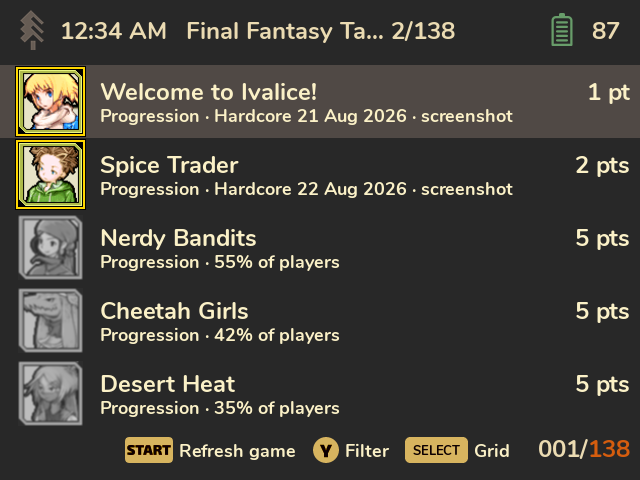
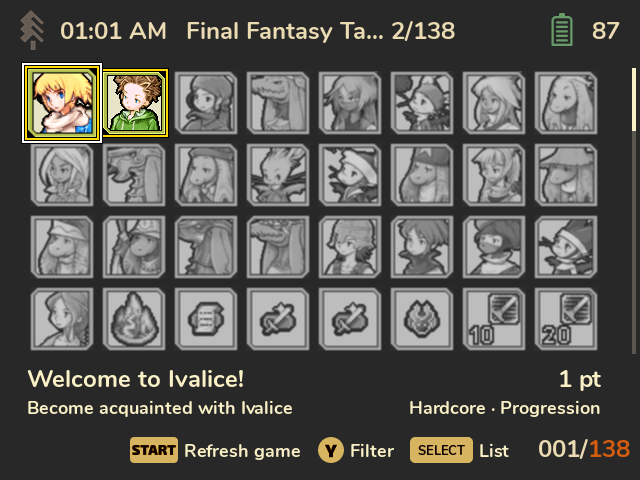
UI: default achievements to grid (#24)

diff --git a/tests/screens/test_walkthrough.py b/tests/screens/test_walkthrough.py
@@ -28,7 +28,7 @@ pytestmark = [
 WALKTHROUGH = (
     "shot:home,a,shot:profile,b,down,a,shot:games,select,shot:games_details,select,"
     "y,shot:games_options,b,"
-    "down,a,shot:game,y,a,down,a,shot:game_grid,select,shot:game_list,b,b,down,a,shot:recent,b,"
+    "down,a,shot:game,select,y,a,down,a,shot:game_grid,select,shot:game_list,b,b,down,a,shot:recent,b,"
     "down,a,shot:awards,a,down,a,shot:settings,down,down,down,down,down,down,down,down,a,"
     "shot:about"
 )
@@ -134,7 +134,7 @@ def test_full_walkthrough(tmp_path, options_button):
 @pytest.mark.parametrize(
     "open_screen",
     ["down,a", "down,a,a", "down,a,a,select", "down,down,down,a"],
-    ids=["games", "achievements", "badge_grid", "awards"],
+    ids=["games", "badge_grid", "achievement_list", "awards"],
 )
 def test_options_popups_accept_y_and_menu(tmp_path, open_screen):
     run_app(
@@ -154,7 +154,7 @@ def test_options_popups_accept_y_and_menu(tmp_path, open_screen):
 
 def test_unlock_screenshot(tmp_path):
     # Real screenshots (dev/sdcard) are git-ignored; without them the fixture card has stand-ins.
-    run_app(tmp_path, "down,a,down,a,down,a,shot:achievement,a,shot:screenshot")
+    run_app(tmp_path, "down,a,down,a,right,a,shot:achievement,a,shot:screenshot")
     shots = tmp_path / "shots" / "640x480"
     assert (shots / "achievement.png").read_bytes() != (shots / "screenshot.png").read_bytes()
 
@@ -227,7 +227,7 @@ def test_games_list_is_kept_while_its_games_are_unchanged(tmp_path):
 
 def test_badge_grid_wraps_to_the_last_page_and_comes_back_to_it_from_a_card(tmp_path):
     # Fire Emblem (87 badges): up from the first wraps to the last, partial page.
-    run_app(tmp_path, "down,a,a,select,shot:first,up,shot:last,a,shot:card,b,shot:back")
+    run_app(tmp_path, "down,a,a,shot:first,up,shot:last,a,shot:card,b,shot:back")
     assert_shots(tmp_path, ["first", "last", "card", "back"])
     shots = tmp_path / "shots" / "640x480"
     below_clock = [png_rows(shots / f"{name}.png", 480)[1][64:] for name in ("first", "last")]
@@ -238,27 +238,27 @@ def test_badge_grid_wraps_to_the_last_page_and_comes_back_to_it_from_a_card(tmp_
 def test_view_preferences_survive_exit_and_restart(tmp_path):
     run_app(
         tmp_path,
-        "down,a,select,shot:details,down,a,select,y,down,down,a,down,down,down,a,shot:grid,b,b,b",
+        "down,a,select,shot:details,down,a,select,y,down,down,a,down,down,down,a,shot:list,b,b,b",
     )
     settings_file = tmp_path / "sdcard/Saves/cheevos/settings.json"
     assert load_settings(settings_file) == Settings(
-        game_list_details=True, achievement_grid=True, achievement_sort="points"
+        game_list_details=True, achievement_grid=False, achievement_sort="points"
     )
 
     # Restart on the same card, then change the layout through Y. Exhausting the script raises
     # SystemExit, which must save the final choice just like B on Home in the first run.
     run_app(
         tmp_path,
-        "down,a,shot:restored_details,down,a,shot:restored_grid,y,a,up,a,shot:list,"
+        "down,a,shot:restored_details,down,a,shot:restored_list,y,a,down,a,shot:grid,"
         "y,down,down,a,down,a,shot:rarity",
     )
     shots = tmp_path / "shots" / "640x480"
-    for name in ("details", "grid"):
+    for name in ("details", "list"):
         # Ignore the top-bar clock when comparing the views before and after restart.
         expected = png_rows(shots / f"{name}.png", 480)[1][64:]
         assert png_rows(shots / f"restored_{name}.png", 480)[1][64:] == expected
     assert load_settings(settings_file) == Settings(
-        game_list_details=True, achievement_grid=False, achievement_sort="rarity"
+        game_list_details=True, achievement_grid=True, achievement_sort="rarity"
     )
 
 

diff --git a/tests/unit/test_ui_context.py b/tests/unit/test_ui_context.py
@@ -39,8 +39,8 @@ def test_changes_apply_in_memory_and_flush_once(tmp_path, monkeypatch):
     monkeypatch.setattr(context, "save_settings", saved)
 
     ctx.update_settings(replace(ctx.settings, game_list_details=True))
-    ctx.update_settings(replace(ctx.settings, achievement_grid=True, auto_sync=False))
-    assert ctx.settings == Settings(game_list_details=True, achievement_grid=True, auto_sync=False)
+    ctx.update_settings(replace(ctx.settings, achievement_grid=False, auto_sync=False))
+    assert ctx.settings == Settings(game_list_details=True, achievement_grid=False, auto_sync=False)
     assert load_settings(ctx.paths.settings_file) == Settings()
     saved.assert_not_called()
 
@@ -51,7 +51,7 @@ def test_changes_apply_in_memory_and_flush_once(tmp_path, monkeypatch):
     assert saved.call_count == 1
 
 
-@pytest.mark.parametrize("initial", [Settings(), Settings(achievement_grid=True)])
+@pytest.mark.parametrize("initial", [Settings(), Settings(achievement_grid=False)])
 def test_unchanged_or_reverted_settings_need_no_write(tmp_path, monkeypatch, initial):
     ctx = make_context(tmp_path, initial)
     saved = Mock()
@@ -67,7 +67,7 @@ def test_unchanged_or_reverted_settings_need_no_write(tmp_path, monkeypatch, ini
 def test_failed_save_is_logged_and_can_be_retried(tmp_path, monkeypatch, caplog):
     ctx = make_context(tmp_path)
     save_settings(ctx.paths.settings_file, ctx.settings)
-    ctx.update_settings(replace(ctx.settings, achievement_grid=True))
+    ctx.update_settings(replace(ctx.settings, achievement_grid=False))
     saved = Mock(side_effect=OSError("card is read-only"))
     monkeypatch.setattr(context, "save_settings", saved)
     ctx.flush_settings()

diff --git a/tests/unit/test_settings.py b/tests/unit/test_settings.py
@@ -14,7 +14,10 @@ from cheevos.core.settings import (
 
 
 def test_missing_file_gives_defaults(tmp_path):
-    assert load_settings(tmp_path / "settings.json") == DEFAULTS
+    loaded = load_settings(tmp_path / "settings.json")
+    assert loaded == DEFAULTS
+    assert loaded.achievement_grid is True
+    assert loaded.awards_view == "carousel"
     assert Settings(BadgeScope.ON_DEVICE_AND_RECENT, 30, DescriptionHiding.OFF, True) == DEFAULTS
 
 
@@ -97,12 +100,15 @@ def test_invalid_achievement_sort_keeps_other_preferences(tmp_path, sort):
     assert load_settings(path) == Settings(achievement_grid=True)
 
 
+@pytest.mark.parametrize("grid", [False, True])
 @pytest.mark.parametrize("view", ["carousel", "grid", "list"])
-def test_awards_view_is_independent_of_the_achievement_view(tmp_path, view):
+def test_saved_view_preferences_are_preserved_independently(tmp_path, grid, view):
     path = tmp_path / "settings.json"
-    save_settings(path, Settings(achievement_grid=False, awards_view=view))
+    save_settings(path, Settings(achievement_grid=grid, awards_view=view))
+    stored = path.read_bytes()
     loaded = load_settings(path)
-    assert (loaded.awards_view, loaded.achievement_grid) == (view, False)
+    assert (loaded.awards_view, loaded.achievement_grid) == (view, grid)
+    assert path.read_bytes() == stored
 
 
 @pytest.mark.parametrize("view", [None, True, "wall", "Grid", ["list"]])

diff --git a/scripts/doc_screens.py b/scripts/doc_screens.py
@@ -34,9 +34,9 @@ RUNS: list[tuple[str, str | None, str]] = [
                 "a,shot:profile,x,down,down,down,down,down,down,shot:profile-more,b",
                 f"down,a,{BY_COMPLETION},shot:games,select,shot:games-details,select",
                 "down,down,a,shot:game",
-                "down,a,shot:achievement,a,shot:fullscreen,b,b,b",
+                "right,a,shot:achievement,a,shot:fullscreen,b,b,b",
                 # Descent, mastered: the grid shot also shows the award dot in the top bar
-                "up,up,a,select,shot:game-grid,b,b",
+                "up,up,a,shot:game-grid,b,b",
                 "down,a,shot:recent,b",
                 # Carousel first; the grid and list then select AotW 2026 (third), a tiered event
                 "down,a,shot:awards,right,right",

diff --git a/tests/unit/test_ui_awards.py b/tests/unit/test_ui_awards.py
@@ -310,7 +310,7 @@ def test_select_cycles_views_keeping_the_selection_and_remembers_it(monkeypatch)
     assert [view.layout for view in FakeView.built] == [Layout.CAROUSEL, Layout.BADGES, Layout.LIST]
     assert [view.initial for view in FakeView.built] == [0, 3, 3]
     assert ctx.settings.awards_view == "list"
-    assert ctx.settings.achievement_grid is False  # independent of the achievement view
+    assert ctx.settings.achievement_grid is True  # independent of the achievement view
 
 
 def test_new_filter_starts_at_the_top_and_unchanged_options_keep_the_page(monkeypatch):

diff --git a/tests/unit/test_ui_game_detail.py b/tests/unit/test_ui_game_detail.py
@@ -97,7 +97,7 @@ def test_empty_filter_recovers_the_full_set(monkeypatch, message_ui, button, lay
     expected = Layout.BADGES if layout == "grid" else Layout.LIST
     shown = [(view.items, view.layout) for view in built]
     assert shown == [
-        ([MenuItem("Locked"), MenuItem("More points")], Layout.LIST),
+        ([MenuItem("Locked"), MenuItem("More points")], Layout.BADGES),
         ([MenuItem("More points"), MenuItem("Locked")], expected),
     ]
     assert message_ui == [strings.NO_ACHIEVEMENTS]

diff --git a/src/cheevos/core/settings.py b/src/cheevos/core/settings.py
@@ -65,7 +65,7 @@ class Settings:
     hide_descriptions: DescriptionHiding = DescriptionHiding.OFF
     auto_sync: bool = True
     game_list_details: bool = False
-    achievement_grid: bool = False
+    achievement_grid: bool = True
     achievement_sort: str = "order"
     awards_view: str = "carousel"
 

diff --git a/.agents/device.md b/.agents/device.md
@@ -8,7 +8,7 @@ always apply. The device commands are in [TESTING.md](../TESTING.md).
 | Item | Value |
 |---|---|
 | OS | SpruceOS ≥ 4.5.0. Needs PyUI views, `spruce/scripts/appEnv.sh` and RAOfflineProxy 2.x. |
-| Devices | Every device Spruce supports. Verified on a Miyoo Mini+ (640×480); the rest of the Mini family shares its setup. Others are untested. |
+| Devices | Every device supported by SpruceOS. |
 | Resolutions | Every resolution the default SPRUCE theme ships: 640×480, 720×480, 752×560, 720×720, 960×720, 1024×768, 1280×720, 480×800. |
 | Runtime | Spruce's CPython **3.10.18**: `$SPRUCE_PYTHON` (32-bit: `spruce/bin/python/bin/python3.10`; 64-bit: `spruce/flip/bin/python3.10`). |
 | Built-in modules we rely on | `ssl` (OpenSSL 3.5), `sqlite3`, `json`, `hashlib`, `zlib`, `ctypes`, `zoneinfo` |
@@ -36,10 +36,8 @@ always apply. The device commands are in [TESTING.md](../TESTING.md).
 - **No `devices` list:** a `devices` list in an app's `config.json` hides it on every device not
   named there. Cheevos ships without one, so the Apps menu shows it on every device.
   `launch.sh` covers every platform PyUI's launcher does.
-- **Untested devices run the same code as the Mini.** Keep device-specific screens and code
-  paths out of the app: we can't test them, so on exactly the devices they're for they would
-  be the riskiest code. A one-time "untested device" note was removed for this reason (it also
-  gave users nothing to act on). Release notes say which devices are tested.
+- **Shared UI across devices:** use the same screens and application logic on every platform,
+  with platform setup handled by the launcher and PyUI bridge.
 - **Start-up failures:** when the app exits non-zero, `launch.sh` appends its stderr to the app
   log and shows a message ([product.md](product.md), "Offline and error behaviour").
   `/mnt/SDCARD/App/PyUI/launch.sh -msgDisplay "text" -msgDisplayTimeMs 5000` shows a message on
@@ -49,7 +47,7 @@ always apply. The device commands are in [TESTING.md](../TESTING.md).
   [RELEASING.md](../RELEASING.md), under "Releases"). The description links merged PR titles
   and direct commit titles.
   Pre-releases start at the previous version tag; stable releases start at the previous stable tag.
-  Game Nursery packaging follows whatever format the maintainers ask for.
+  Stable releases are mirrored into SpruceOS's `App/Cheevos/` through an upstream PR.
 
 ## Device gotchas (verified on a Miyoo Mini+, SpruceOS 4.5.0)
 - **Idle check:** a test once replaced the cache under an open session; hence the rule to check

diff --git a/README.md b/README.md
@@ -22,29 +22,27 @@ Works offline, follows your Spruce theme.
 - **Optional spoiler protection** for locked descriptions: all of them, or just the story ones.
 
 ## Install
+Cheevos is included in SpruceOS public and nightly releases and supports **every device
+supported by SpruceOS**.
+
 1. You need **SpruceOS 4.5.0+**, signed in to RetroAchievements (Spruce Settings →
-   RetroAchievements, or RetroArch). Tested on the Miyoo Mini family; other Spruce devices
-   should work too, see below.
-2. Download the latest [release](../../releases) and copy the `Cheevos` folder into `App/` on
-   your SD card.
-3. Open **Apps → Cheevos** and enter your **Web API key** when asked. Find it at
+   RetroAchievements, or RetroArch).
+2. Open **Apps → Cheevos** and enter your **Web API key** when asked. Find it at
    retroachievements.org → Settings → Applications.
+
+For a manual installation or update, download the latest [release](../../releases) and copy
+the `Cheevos` folder into `App/` on your SD card.
 
 The [user guide](docs/Home.md) explains every screen, setting and limitation.
 
 ## Development
 Python 3.10 with no third-party packages at runtime; the screens are drawn with PyUI, the UI
 toolkit SpruceOS ships. A desktop runner shows the real app on a Mac or PC without a device.
-- [CONTRIBUTING.md](CONTRIBUTING.md): reporting bugs and devices, making changes, pull requests.
+- [CONTRIBUTING.md](CONTRIBUTING.md): reporting bugs, making changes, pull requests.
 - [TESTING.md](TESTING.md): setup, tests, the desktop runner, simulations, the device workflow.
 - [RELEASING.md](RELEASING.md): CI, releases, SpruceOS pull requests and wiki publication.
 - [AGENTS.md](AGENTS.md) and [.agents/](.agents/): how it works inside, area by area. Written for
   coding agents, and just as useful to people.
-
-**Help testing on other Spruce devices is welcome.** Cheevos installs on every Spruce device, but
-so far it's only been tried on the Miyoo Mini family. On other devices it says so on first
-start; if you try it, please open an issue with how it went and the log
-(`Saves/spruce/cheevos-<device>.log`), see [CONTRIBUTING.md](CONTRIBUTING.md).
 
 ## Credits and license
 MIT, see [LICENSE](LICENSE). Data, badges and game icons come from

diff --git a/.agents/product.md b/.agents/product.md
@@ -21,8 +21,7 @@ Related: what we read from Spruce, RetroArch and the proxy is in
 - Works offline once synced. When Wi-Fi is up, it syncs incrementally in the background.
 - Shows Hardcore and Casual progress side by side, plus unlocks still queued in RAOfflineProxy.
 - Links achievements to their unlock screenshots when they exist.
-- Quality good enough to ship publicly (GitHub release, then Spruce Game Nursery or an upstream
-  PR).
+- Ships in SpruceOS public and nightly releases, with standalone packages on GitHub.
 
 **Non-goals (v1)**
 - Launching games from the hub.
@@ -90,8 +89,9 @@ Settings.
   - title, points, and a type tag (Progression / Win / Missable);
   - an unlock marker: Hardcore, Casual or Pending sync;
   - "screenshot" if an unlock screenshot exists.
-- **View**: list or badge grid (Select). Going into a card and back returns to the same view and
-  page; so does a Y menu left unchanged. A new filter or sort starts at the top.
+- **View**: badge grid (default) or list (Select). Saved preferences keep their chosen view.
+  Going into a card and back returns to the same view and page; so does a Y menu left
+  unchanged. A new filter or sort starts at the top.
 - **Badge grid**: badges packed close together, like the achievement wall on RA profiles: 8×4
   at 640×480, 11×4 at 1280×720, 8×6 at 720×720, 6×8 at 480×800 (whole rows and columns at the
   theme's badge size, never shrunk to fit more). Every cell has room for a gold outline, so no

diff --git a/docs/Screens.md b/docs/Screens.md
@@ -75,7 +75,8 @@ details. Their cards say **Unlocked offline · waiting to sync**, with the queue
 
 ![Achievements](images/game.png)
 
-Press **Select** for a badge grid, and **Y** to filter (locked, unlocked, missable, progression
+Achievements start in the badge grid unless you've saved another view. Press **Select** to
+switch between grid and list, and **Y** to filter (locked, unlocked, missable, progression
 and win) or sort (**RA display order**, points, rarest first, unlocked first or locked first).
 RA display order is the default: the set's display order on RetroAchievements, with achievement
 ID breaking ties. Cheevos remembers your sort and list/grid choice for all games, including games
@@ -130,7 +131,7 @@ for completing this event"…) and the date.
 
 Press **Select** to switch between three views; Cheevos remembers your choice:
 
-- **Carousel**: one large badge in the middle, its neighbours getting smaller towards the
+- **Carousel** (default): one large badge in the middle, its neighbours getting smaller towards the
   edges. **Left** and **right** slide through them.
 - **Grid**: many badges at once, like the profile page.
 - **List**: one row per badge, with its title, description and date.

diff --git a/docs/Installation.md b/docs/Installation.md
@@ -1,15 +1,18 @@
 # Installation
 
+Cheevos is included in SpruceOS public and nightly releases. Open **Apps → Cheevos** to start
+it. You can also install or update it manually from the latest Cheevos release.
+
 ## Requirements
 - **SpruceOS 4.5.0+.** Cheevos uses Spruce's own UI toolkit (PyUI) and Python, so it
   needs nothing else.
-- **A device Spruce runs on.** Cheevos is tested on the Miyoo Mini family; on other devices it
-  should work too (see [Themes and devices](Themes-and-Devices.md)).
+- **Any device supported by SpruceOS.** Cheevos supports them all (see
+  [Themes and devices](Themes-and-Devices.md)).
 - **A RetroAchievements account**, signed in on the device (in Spruce's RetroAchievements
   settings or in RetroArch), and its **Web API key**. See [Setup](Setup.md).
 - **Wi-Fi** for the first sync. After that, Cheevos also works offline.
 
-## Install
+## Manual install
 1. Download `Cheevos-<version>.zip` from the latest release on the repository's **Releases**
    page (not the "Source code" archives), or build it yourself with `make package` (see
    `RELEASING.md` in the repository).
